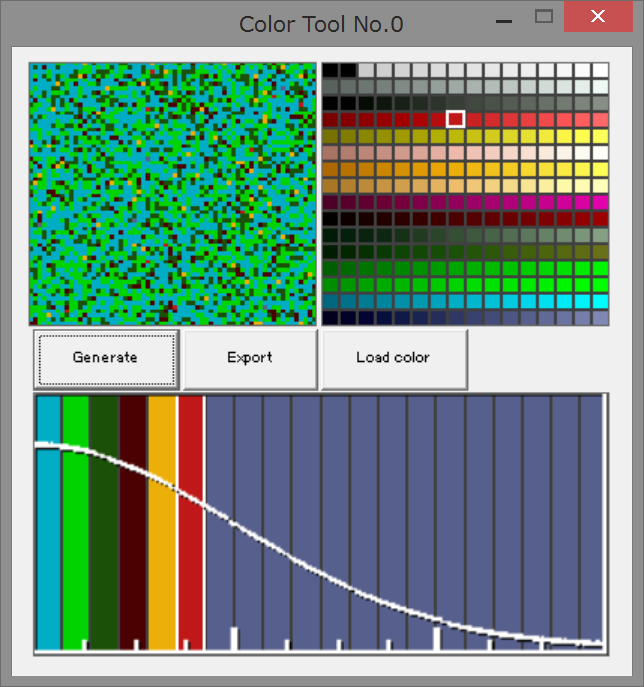
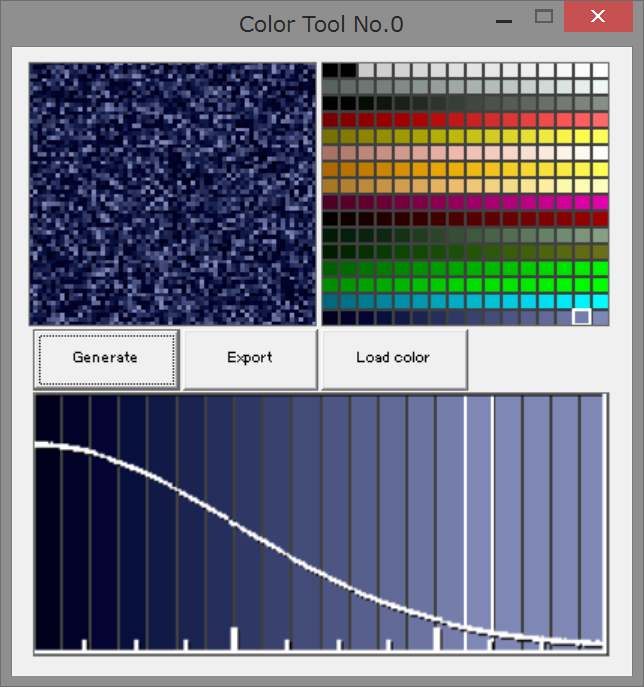
range parameter calue fixed

diff --git a/canvas.cc b/canvas.cc
@@ -20,7 +20,7 @@
   // Fixed parameters for normal distribution used in this program.
 #define NORMAL_DIST_MUE     (0.0)
 #define NORMAL_DIST_SIGMA   (1.0)
-#define NORMAL_DIST_RANGE   (11.5)
+#define NORMAL_DIST_RANGE   (2.80)
 
 Canvas::Canvas() = default;
 
